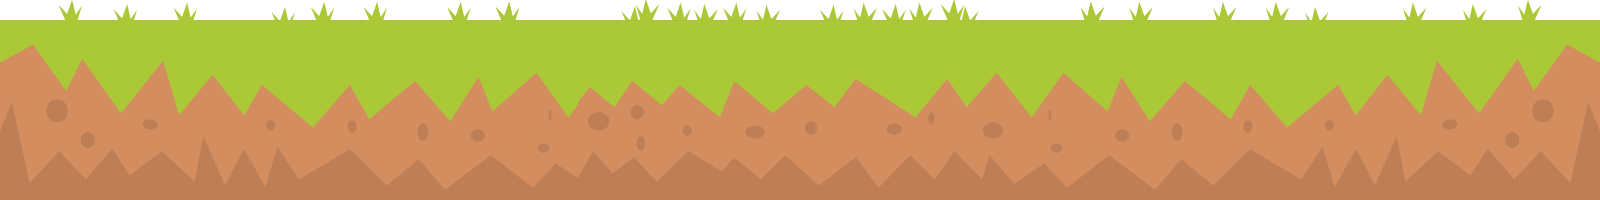
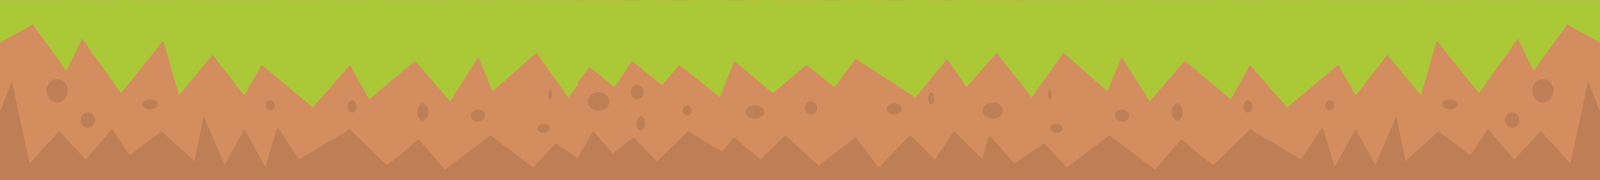
assets: splitt ground/grass, add hitboxes for feilong

Changed region(s): [[0.0, 0.1389, 1.0, 0.6389], [0.0, 0.0, 1.0, 0.1111]]

diff --git a/src/Scenes/Boot.js b/src/Scenes/Boot.js
@@ -53,10 +53,16 @@ export default class extends Phaser.Scene
         // LevelSelect
         this.load.image('levelselect/background', 'assets/levelselect/background.png');
         this.load.image('levelselect/ground', 'assets/levelselect/ground.png');
+        this.load.image('levelselect/grass', 'assets/levelselect/grass.png');
 
         // Gameplay
         this.load.image('ennemy/apple', 'assets/sprites/apple.png');
         this.load.image('power/thunder', 'assets/power/thunder.png');
+
+        // Feilong
+        this.load.spritesheet('feilong/idle', 'assets/feilong/idlefeilong.png', { frameWidth: 111.17, frameHeight: 185 });
+        this.load.spritesheet('feilong/walking', 'assets/feilong/walkingfeilong.png', { frameWidth: 90, frameHeight: 182 });
+        this.load.json('feilong/hitbox', 'assets/feilong/hitboxes.json');
 
         WebFont.load({
             google: {
